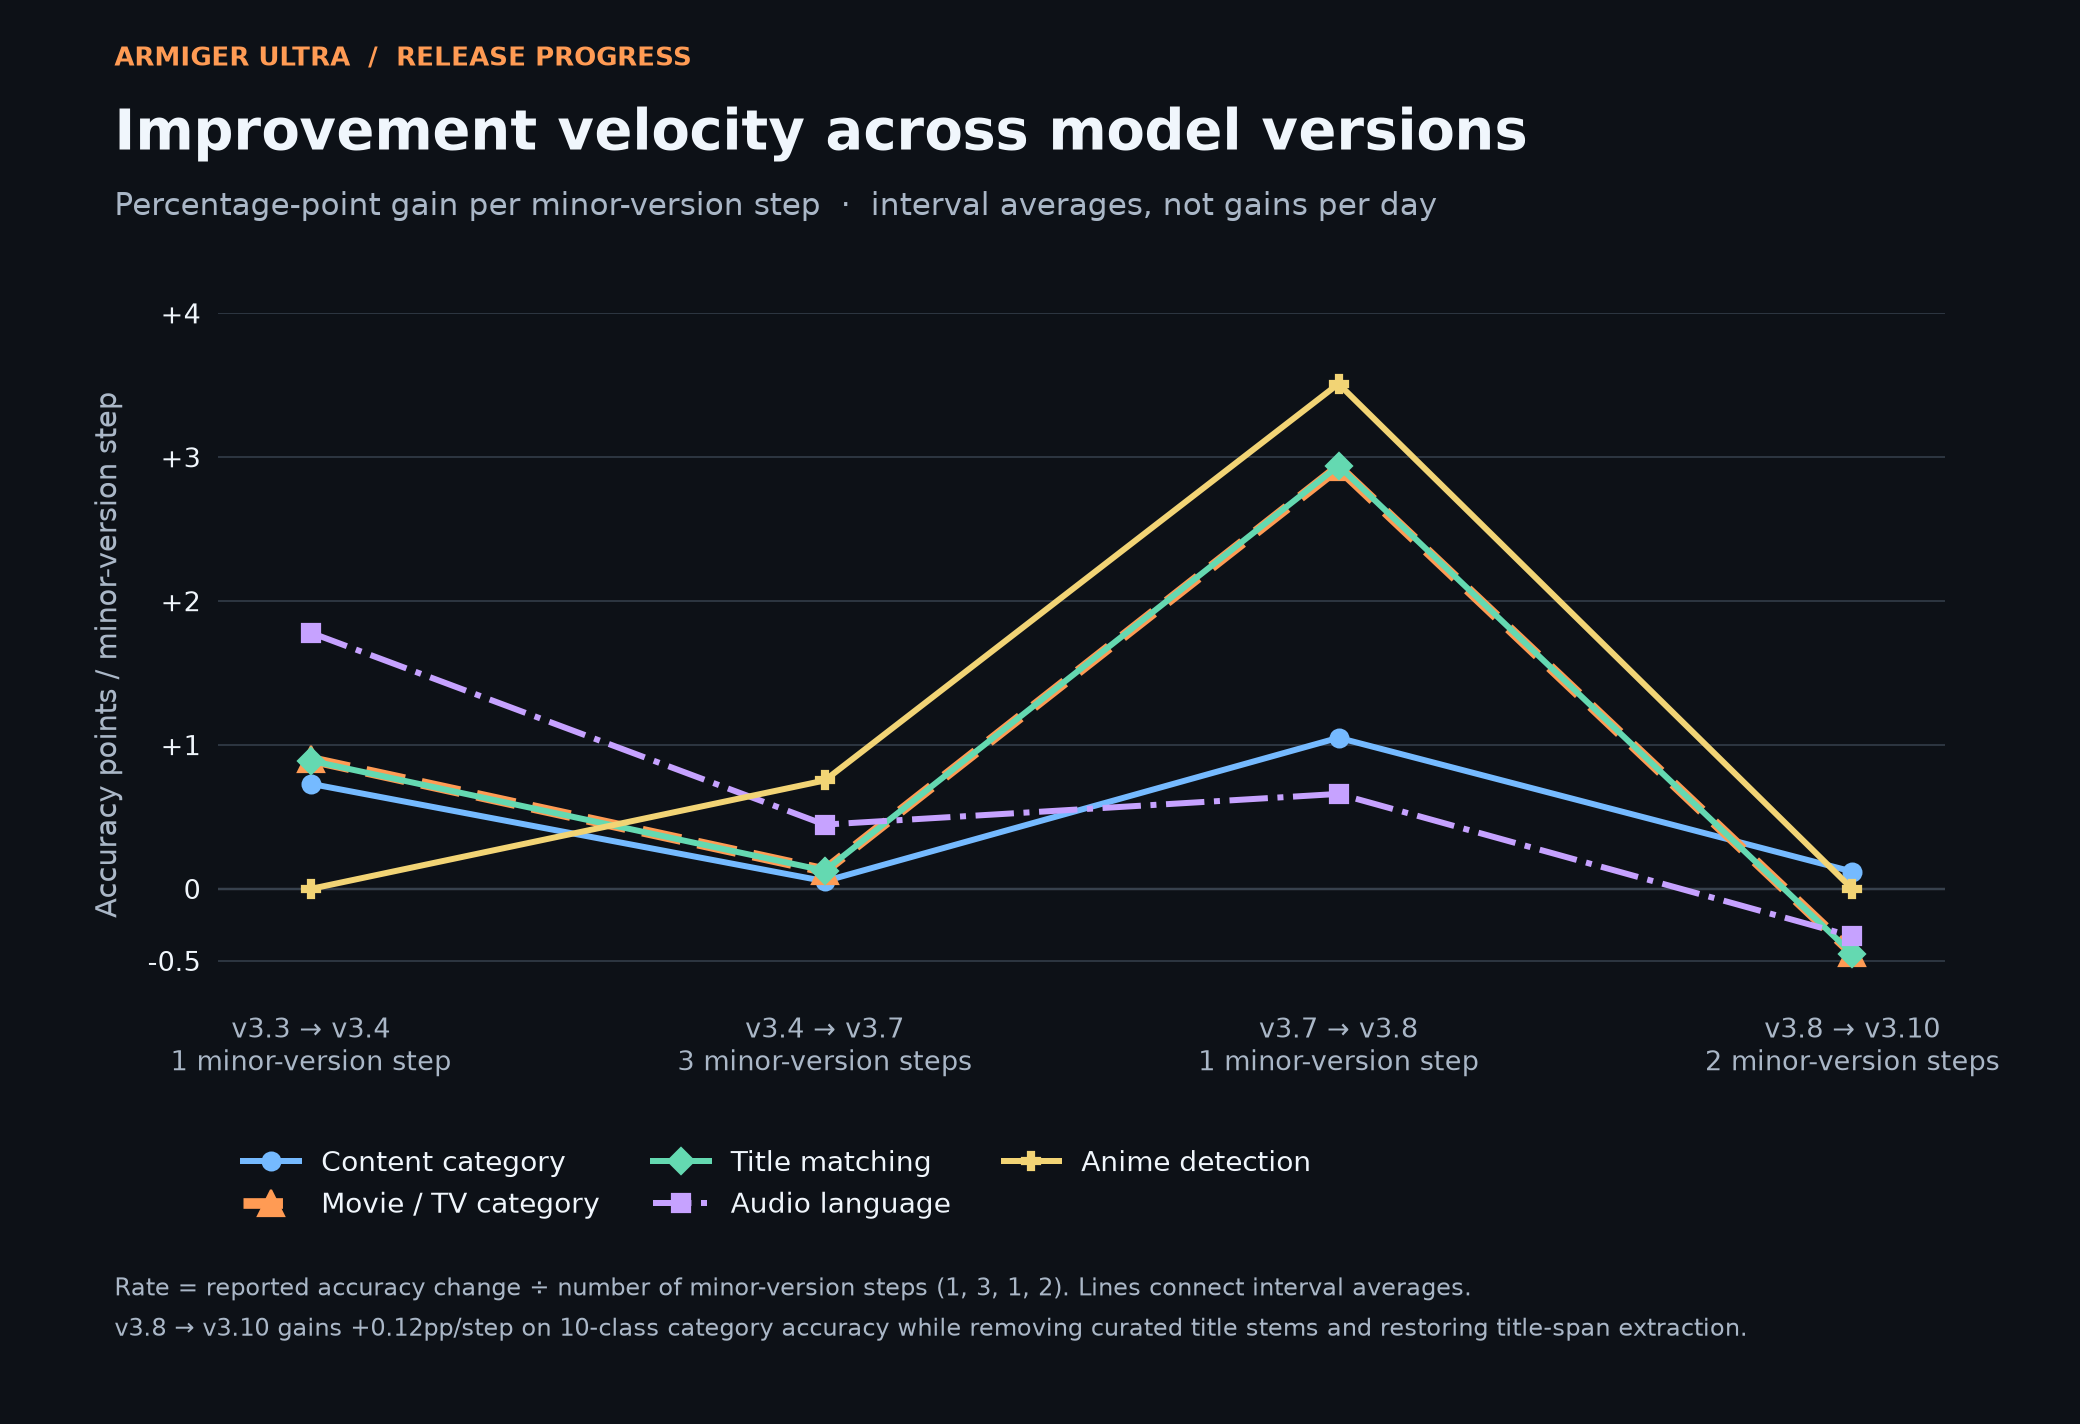
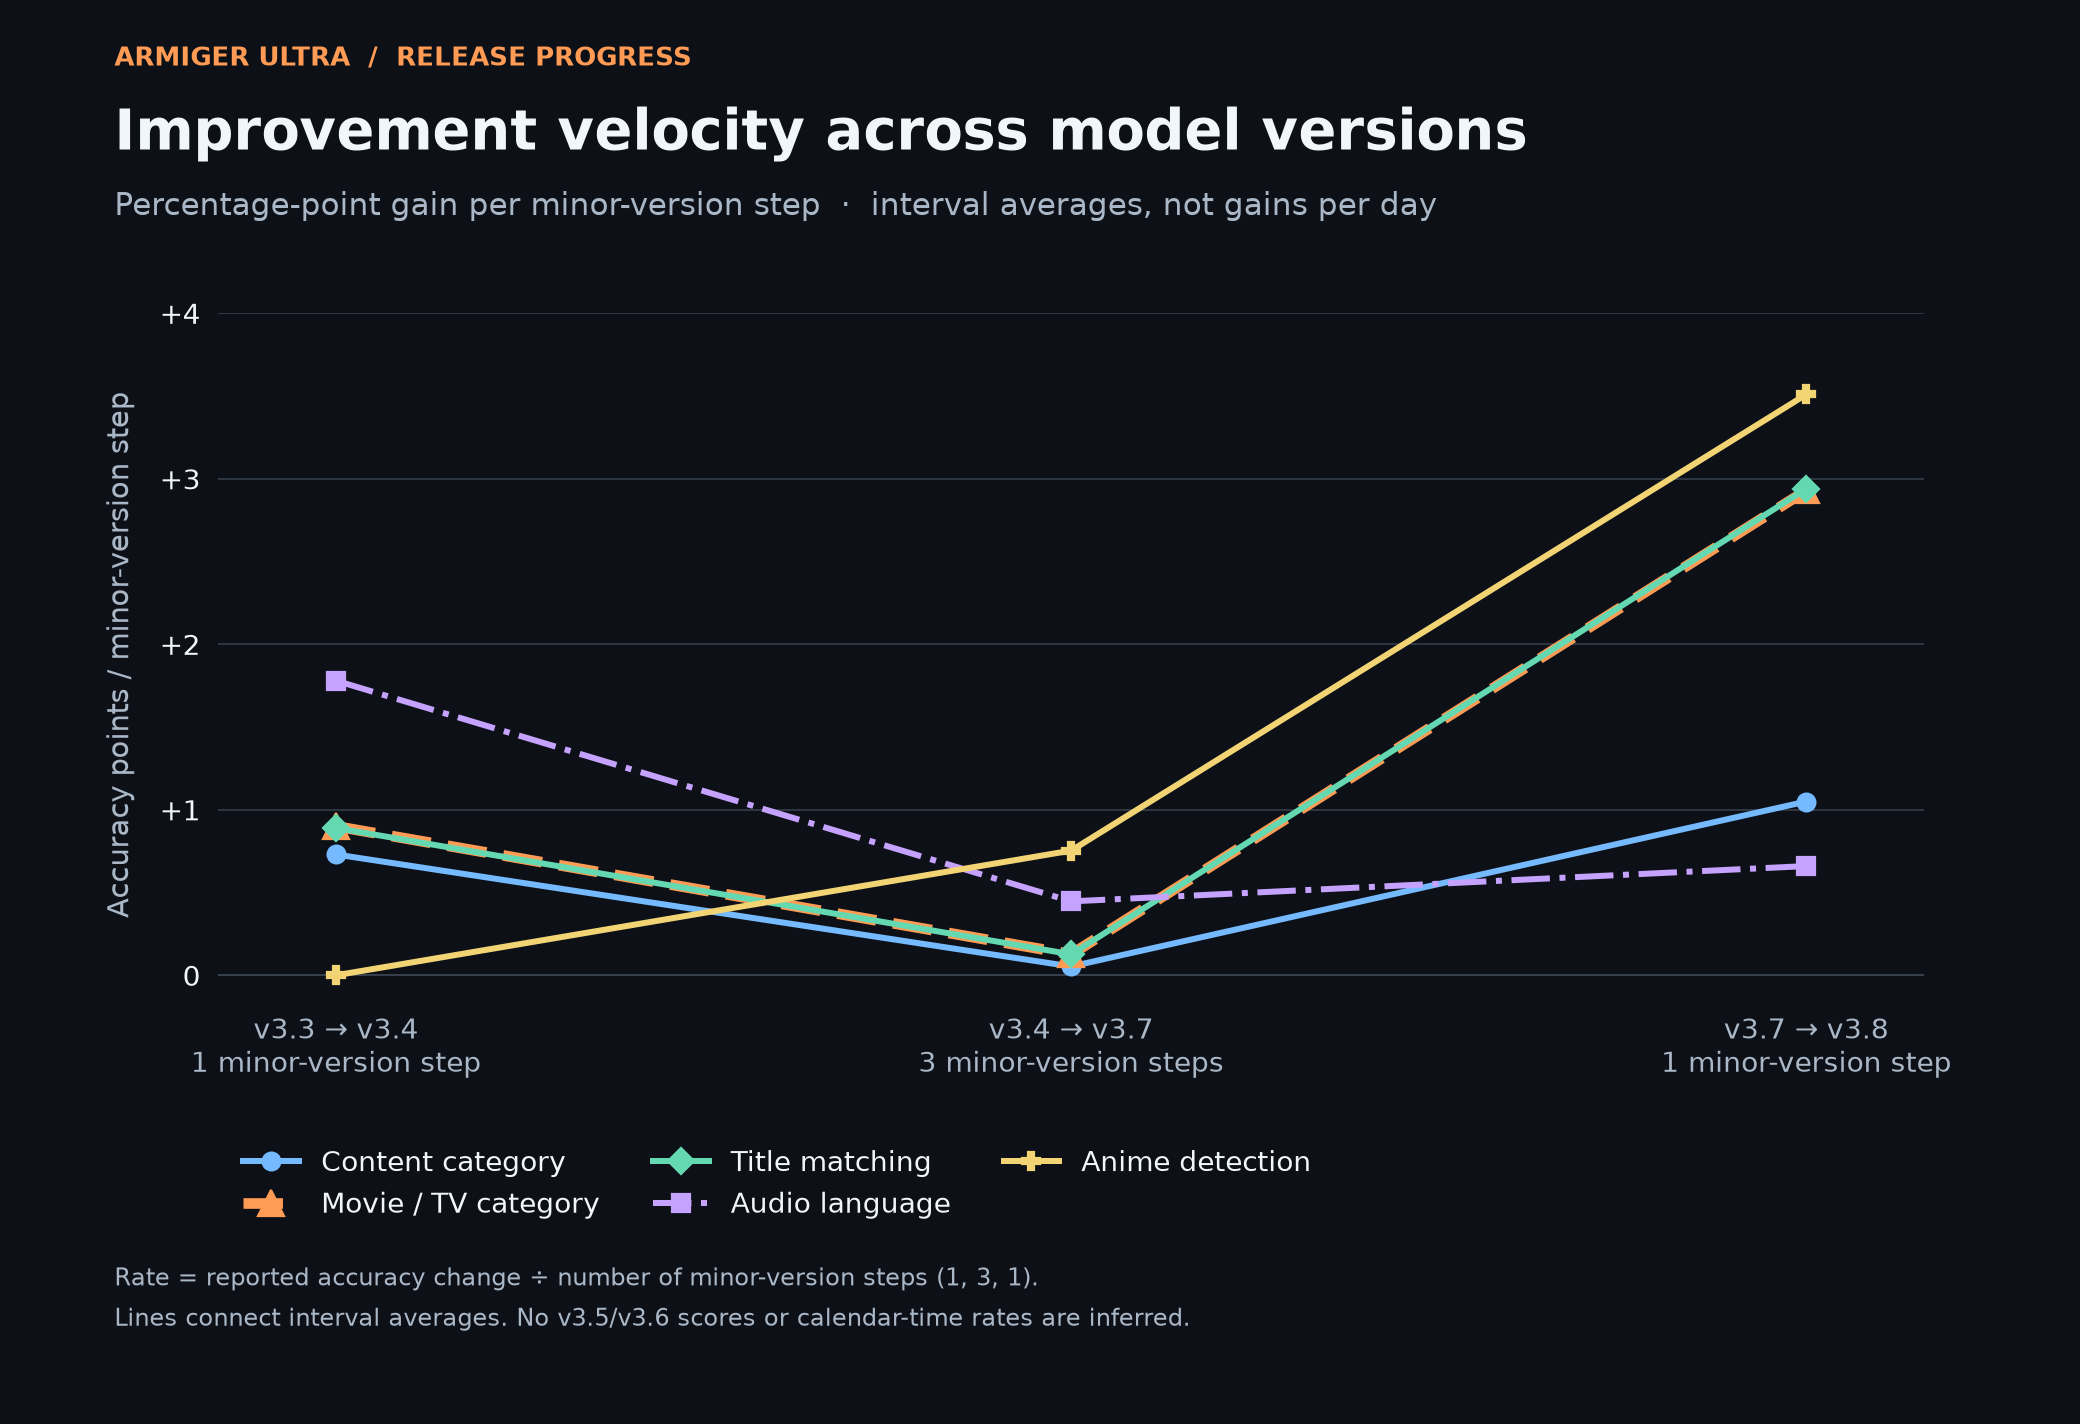
Revert "Update discussion 55 progression and velocity charts for v3.10.0"
This reverts commit 357b9769ab49d70422372e05ecc851a1ccef7eae.

diff --git a/README.md b/README.md
@@ -2,9 +2,9 @@
 
 These assets illustrate [the release cadence discussion](https://github.com/spencernorton/armiger/discussions/55).
 
-- `accuracy-by-task.png`: v3.3.0, v3.8.0, and v3.10.0 point estimates and published 95% intervals.
-- `relative-error-reduction.png`: (new accuracy - old accuracy) / (100 - old accuracy) * 100 from v3.3.0 to v3.10.0.
-- `improvement-velocity.png`: accuracy-point change per minor-version step, using gaps 1, 3, 1, and 2 across v3.3.0, v3.4.0, v3.7.0, v3.8.0, and v3.10.0. These are interval averages, not per-day rates; intermediate scores are not inferred.
+- `accuracy-by-task.png`: v3.3.0 versus v3.8.0 point estimates and published 95% intervals.
+- `relative-error-reduction.png`: (new accuracy - old accuracy) / (100 - old accuracy) * 100.
+- `improvement-velocity.png`: accuracy-point change per minor-version step, using gaps 1, 3, and 1 across v3.3.0, v3.4.0, v3.7.0, and v3.8.0. These are interval averages, not per-day rates; intermediate scores are not inferred.
 - `chart-data.json`: exact chart values, task denominators, and immutable source links.
 
 All values use the published `heldout_20261026` cohort. The smaller task slices are separate denominators, not disjoint datasets to add together. These charts report the Ultra pipeline, including enrichment components. Individual changes are point estimates and do not establish statistical significance or attribute gains solely to training-data growth.
